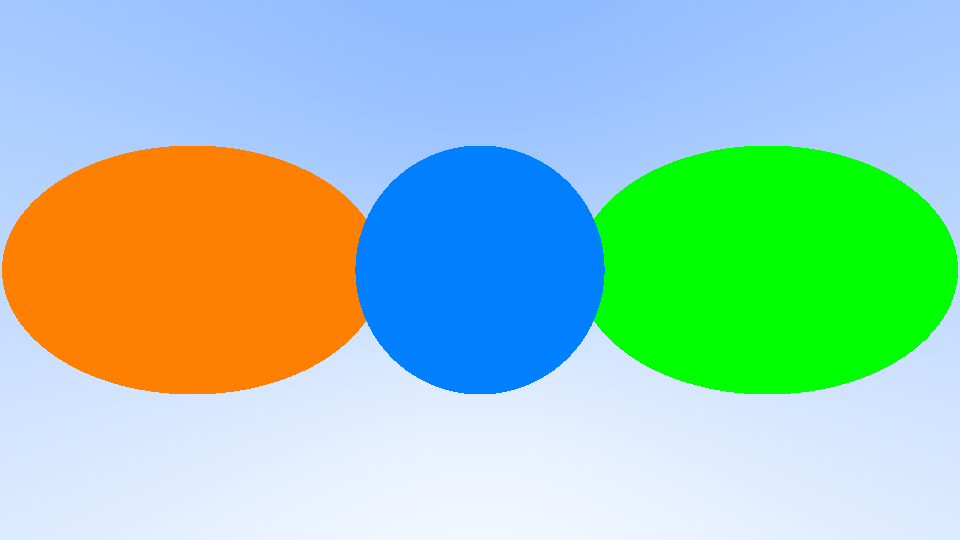
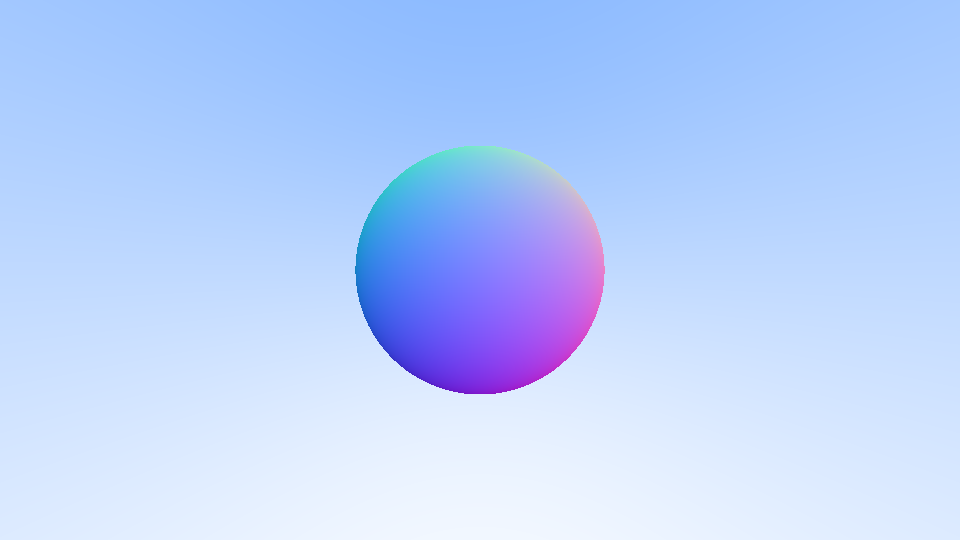
normals

diff --git a/src/main.rs b/src/main.rs
@@ -63,28 +63,28 @@ fn write_color(pixel_buf: &mut PixelBuf, color: Color) {
 }
 
 fn ray_color(ray: Ray) -> Color {
-    if hit_sphere(Point3::new(0.0,0.0,-1.0), 0.5, &ray) {
-        return Color::new(0.0, 0.5, 1.0);
+    let sphere_center = Point3::new(0.0, 0.0, -1.0);
+    let t = hit_sphere(sphere_center, 0.5, &ray);
+    if t > 0.0 {
+        let n: Color = (ray.at(t) - sphere_center).normalize();
+        return 0.5 * Color::new(n.x + 1.0, n.y + 1.0, n.z + 1.0);
     }
 
-    if hit_sphere(Point3::new(1.0,0.0,-1.0), 0.5, &ray) {
-        return Color::new(0.0, 1.0, 0.0);
-    }
-
-    if hit_sphere(Point3::new(-1.0,0.0,-1.0), 0.5, &ray) {
-        return Color::new(1.0, 0.5, 0.0);
-    }
-
+    // Background color
     let unit_direction = ray.direction.normalize();
     let t = 0.5 * (unit_direction.y + 1.0);
     return (1.0 - t) * Color::new(1.0, 1.0, 1.0) + t * Color::new(0.5, 0.7, 1.0);
 }
 
-fn hit_sphere(center: Point3, radius: f64, ray: &Ray) -> bool {
+fn hit_sphere(center: Point3, radius: f64, ray: &Ray) -> f64 {
     let oc = ray.origin - center;
     let a = ray.direction.dot(&ray.direction);
     let b = 2.0 * oc.dot(&ray.direction);
     let c = oc.dot(&oc) - radius * radius;
     let discriminant = b * b - 4.0 * a * c;
-    return discriminant > 0.0;
+    if discriminant < 0.0 {
+        return -1.0;
+    } else {
+        return (-b - discriminant.sqrt()) / (2.0 * a);
+    }
 }

diff --git a/src/ray.rs b/src/ray.rs
@@ -9,7 +9,7 @@ pub struct Ray {
 }
 
 impl Ray {
-    fn _at(&self, t: f64) -> Point3 {
+    pub fn at(&self, t: f64) -> Point3 {
         self.origin + t*self.direction
     }
 }
